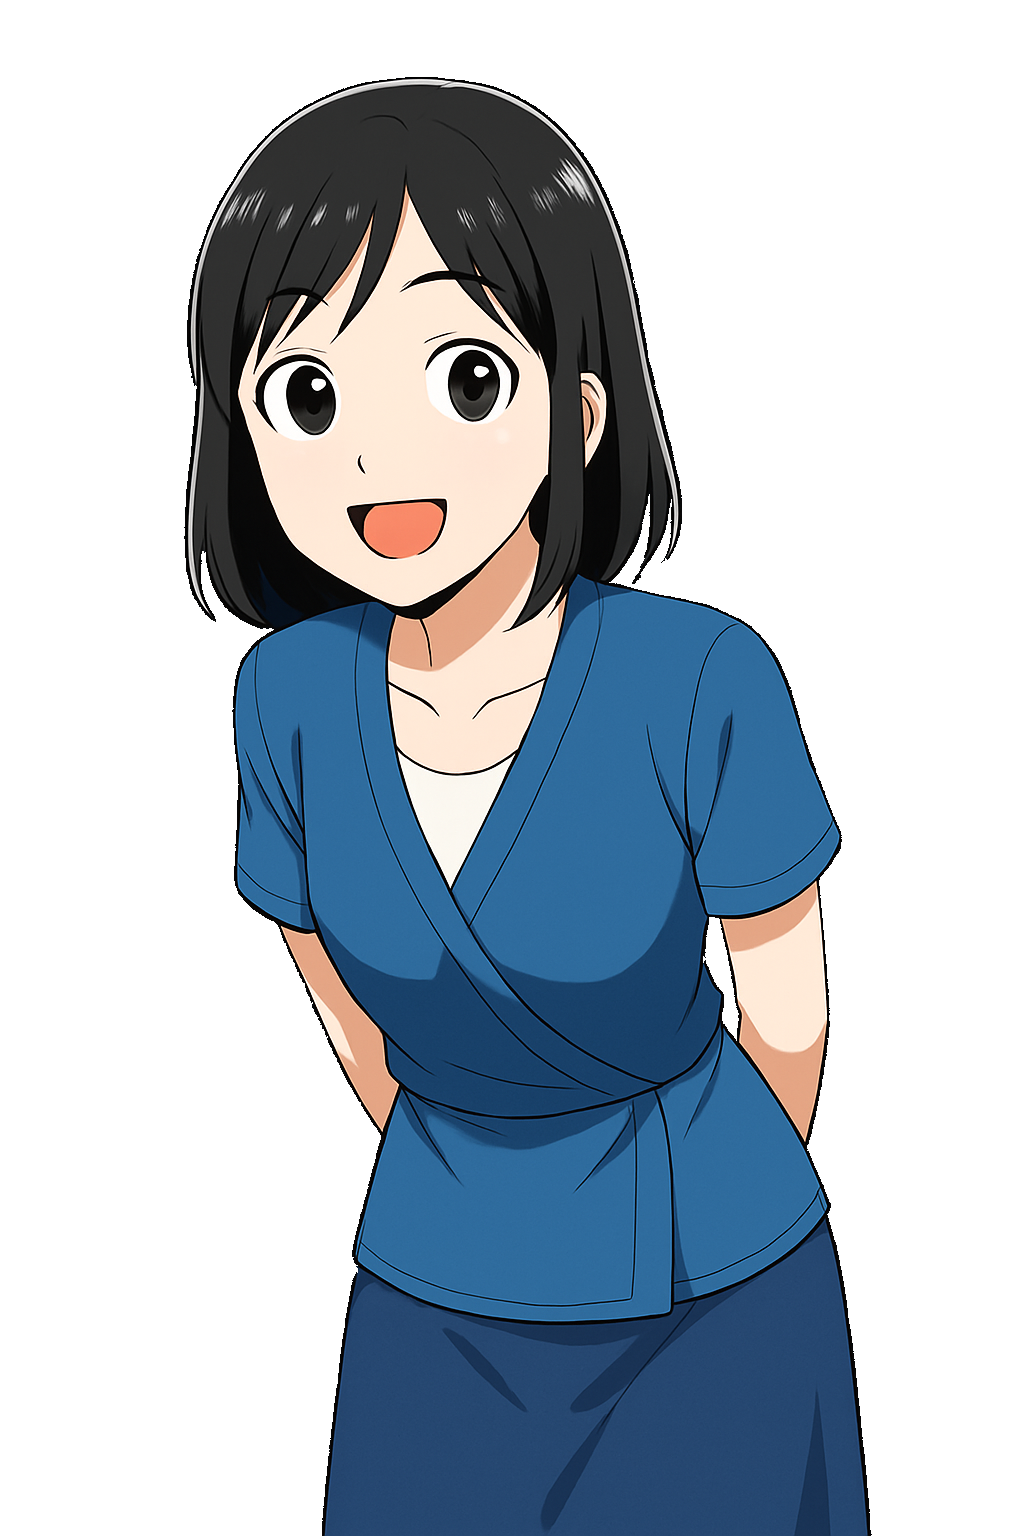
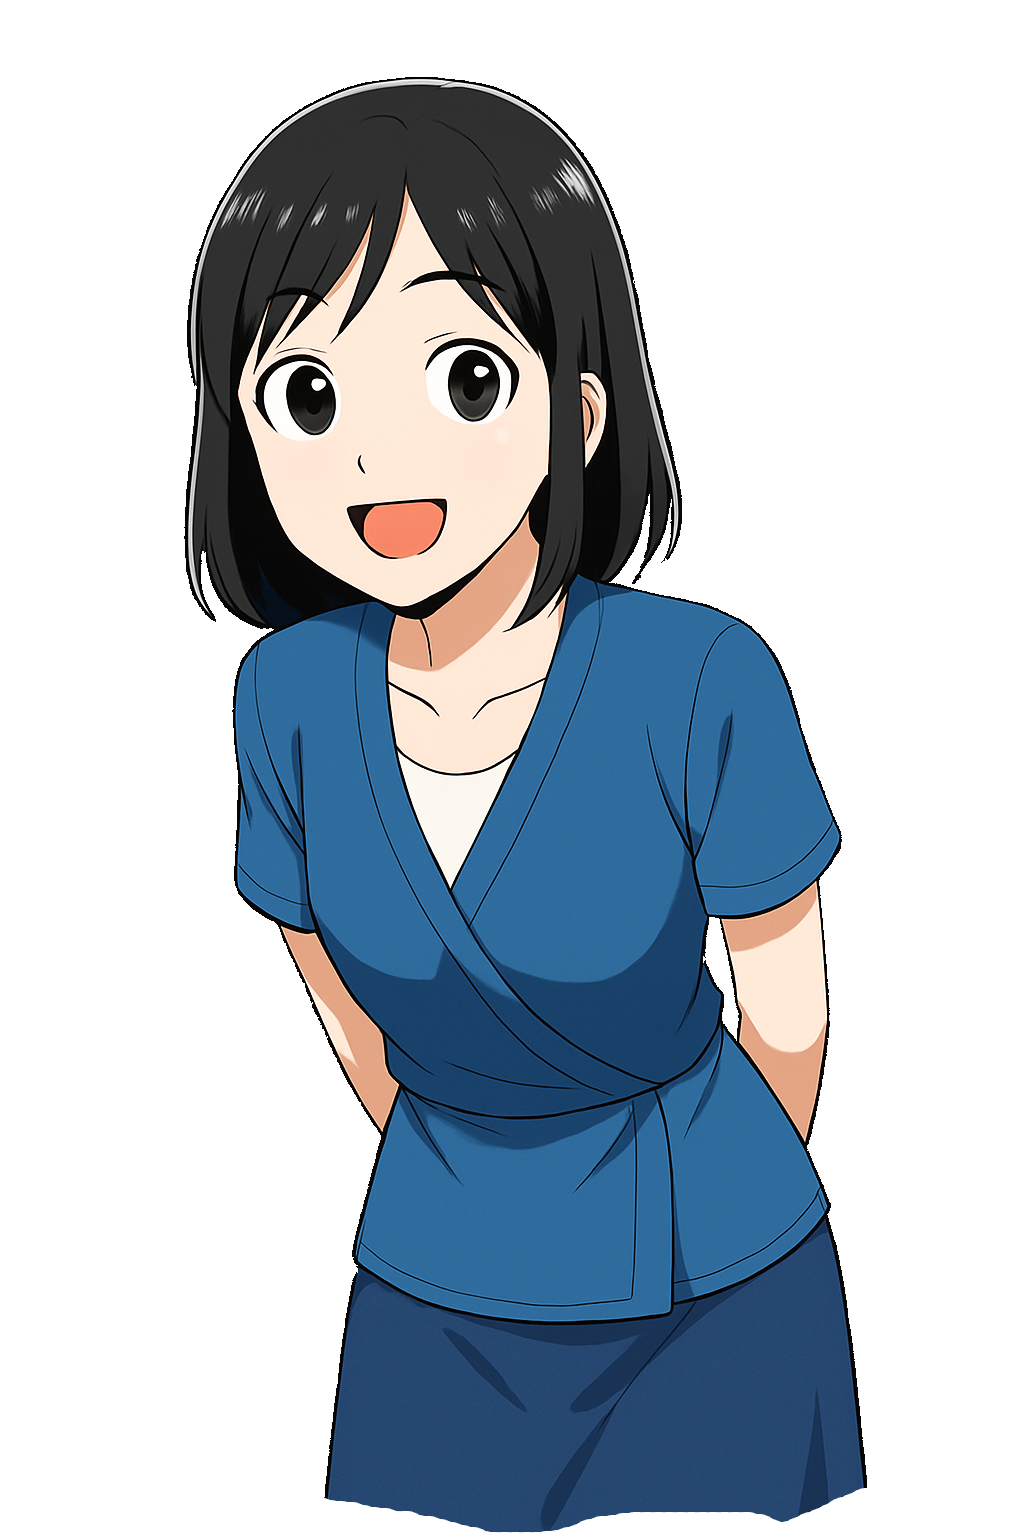
missing translation

Changed region(s): [[0.5312, 0.9688, 0.875, 1.0], [0.3125, 0.9688, 0.4688, 1.0]]

diff --git a/components/molecules/Game/SingleNoteGame.tsx b/components/molecules/Game/SingleNoteGame.tsx
@@ -24,7 +24,7 @@ import { ScoreManager } from "@/utils/ScoreManager";
 import { STYLES } from "@/utils/styles";
 import { CurrentGame, Game, GameScreenParams, Note, SingleNoteRound } from "@/utils/types";
 import { router, useLocalSearchParams } from "expo-router";
-import { useCallback, useEffect, useMemo, useState } from "react";
+import { useCallback, useEffect, useMemo, useRef, useState } from "react";
 import { StyleProp, TextStyle, View } from "react-native";
 import { SafeAreaView } from "react-native-safe-area-context";
 import { Placement } from "react-native-tooltip-2";
@@ -33,6 +33,7 @@ import { Piano } from "../Piano/Piano";
 import { SheetMusic } from "../SheetMusic";
 import { TimerAndStatsDisplay } from "../TimeAndStatsDisplay";
 import { LoadingScreen } from "../LoadingScreen";
+import { WAIT_MISTAKE, WAIT_SUCCESS } from "@/utils/constants";
 
 const s = STYLES.game;
 
@@ -61,7 +62,13 @@ export function SingleNoteGameComponent() {
         () => decideNextRound<SingleNoteRound>(level, keySignature, possibleNotes)?.value ?? "c/3"
     );
 
+    const isLocked = useRef(false);
     async function onPianoKeyPress(notename: NoteName) {
+        if (isLocked.current) {
+            console.warn("locked");
+            return;
+        }
+        isLocked.current = true;
         const { noteName, octave } = explodeNote(currNote);
         const playedNote = `${notename}/${+octave}` as Note;
         const isSuccess = isNoteMatch(notename, noteName);
@@ -70,14 +77,18 @@ export function SingleNoteGameComponent() {
         const { currNoteValue } = ScoreManager.push(isSuccess ? "success" : "mistake");
         eventEmitter.emit(AppEvents.NotePlayed, { data: { playedNote, currNote, isSuccess, currNoteValue } });
 
+        let lockTime = 0;
         if (isSuccess) {
             playPianoNote(playedNote);
+            lockTime = WAIT_SUCCESS;
         } else {
             playPianoNote(playedNote);
             playPianoNote(currNote);
             playSoundEfx(SoundEffect.WrongAnswer2);
+            lockTime = WAIT_MISTAKE;
         }
 
+        wait(lockTime).then(() => (isLocked.current = false));
         if (!currentGame || currentGame.type !== GameType.Single) return;
 
         addNewRound({ value: currNote, attempt: playedNote });

diff --git a/components/molecules/SheetMusic/SingleNote.tsx b/components/molecules/SheetMusic/SingleNote.tsx
@@ -23,6 +23,7 @@ import { getDrawNote } from "@/utils/noteFns";
 import { Note, NotePlayedEventData } from "@/utils/types";
 import { StyleSheet } from "react-native";
 import { getScoreHeight } from "@/utils/device_sizes";
+import { WAIT_MISTAKE, WAIT_SUCCESS } from "@/utils/constants";
 
 const armatureSpace = {
     [KeySignature.Cb]: 70,
@@ -64,8 +65,6 @@ const scoreDims = getScoreHeight();
 const height = scoreDims.stageHeight;
 const MIN_STAVE_WIDTH = 180;
 
-const WAIT_SUCCESS = 100;
-const WAIT_MISTAKE = 350;
 export interface MusicNoteProps {
     targetNote: Note;
     clef: Clef;
@@ -110,7 +109,6 @@ export function SingleNoteComponent(props: MusicNoteProps) {
 
     useEffect(() => {
         eventEmitter.addListener(AppEvents.NotePlayed, ({ data }: { data: NotePlayedEventData }) => {
-            // console.log("listenerCount ::::", eventEmitter.listenerCount(AppEvents.NotePlayed));
             const { playedNote, isSuccess } = data;
             // console.log("NotePlayed:::", { playedNote, isSuccess });
             waitTime.current = isSuccess ? WAIT_SUCCESS : WAIT_MISTAKE;

diff --git a/app/init/01.lang.screen.tsx b/app/init/01.lang.screen.tsx
@@ -57,7 +57,7 @@ export default function LangScreen() {
                                 }}
                             >
                                 <AppText style={{ textAlign: "center", color: Colors[theme].bg }}>
-                                    Welcome! Ready to practice music sight reading?
+                                    {t("routes.init.greeting")}
                                 </AppText>
                             </AppView>
                         </FadeIn>
@@ -68,7 +68,7 @@ export default function LangScreen() {
                                     position: "absolute",
                                     left: 132,
                                     // right: -180,
-                                    top: -160,
+                                    top: -120,
                                     width: 180,
                                     height: 400,
                                     zIndex: 1,

diff --git a/app/index.tsx b/app/index.tsx
@@ -131,7 +131,7 @@ export default function Home() {
                 />
             </View>
 
-            <Animated.Image style={s.image} source={require("../assets/images/girl.03.png")} />
+            <Image style={s.image} source={require("../assets/images/girl.03.png")} />
         </AppView>
     );
 }
@@ -152,8 +152,8 @@ const s = StyleSheet.create({
         flex: 1,
         justifyContent: "space-between",
         alignItems: "center",
-        paddingTop: 104,
-        paddingBottom: 54,
+        paddingTop: 80,
+        paddingBottom: 24,
         // backgroundColor: "transparent",
         zIndex: 10,
     },
@@ -169,8 +169,8 @@ const s = StyleSheet.create({
         position: "absolute",
         left: 0,
         bottom: 0,
-        width: 280,
-        height: 420,
+        width: 210,
+        height: 320,
         zIndex: 2,
     },
 });

diff --git a/app/_layout.tsx b/app/_layout.tsx
@@ -97,11 +97,11 @@ export function useAppInitialization() {
         }
     }, [soundsLoaded, fontsLoaded]);
 
-    useEffect(() => {
-        console.log("listenerCount ::::", eventEmitter.listenerCount(AppEvents.NotePlayed));
-        console.log("path :::", path);
-        console.log("Dimensions :::", Dimensions.get("screen"));
-    }, [path]);
+    // useEffect(() => {
+    //     console.log("listenerCount ::::", eventEmitter.listenerCount(AppEvents.NotePlayed));
+    //     console.log("path :::", path);
+    //     console.log("Dimensions :::", Dimensions.get("screen"));
+    // }, [path]);
 
     useEffect(() => {
         NavigationBar.setVisibilityAsync("hidden");

diff --git a/hooks/useLoadingNavigation.ts b/hooks/useLoadingNavigation.ts
@@ -10,7 +10,7 @@ export function useLoadingNavigation() {
         setIsNavigating(true);
         // console.log("navigating to ", route);
         // await wait(10000);
-        // await wait(0);
+        await wait(0);
 
         router.push({
             pathname: route,
@@ -20,7 +20,9 @@ export function useLoadingNavigation() {
     useEffect(() => {
         // console.log("path :::", { p: path });
         if (path) {
-            setIsNavigating(false);
+            wait(200).then(() => {
+                setIsNavigating(false);
+            });
         }
     }, [path]);
 

diff --git a/utils/constants.ts b/utils/constants.ts
@@ -28,3 +28,6 @@ export const SUPPORTED_LANGUAGES = Object.keys(TRANSLATIONS);
 export const LANGS = SUPPORTED_LANGUAGES.map((lang) => ({ key: lang, value: (TRANSLATIONS as any)[lang].lang }));
 
 export const WALKTHROUGH_TOP_ADJUSTMENT = Platform.OS === "android" ? -StatusBar.currentHeight! : 0;
+
+export const WAIT_SUCCESS = 100;
+export const WAIT_MISTAKE = 350;

diff --git a/translations/pt-BR.ts b/translations/pt-BR.ts
@@ -32,6 +32,7 @@ const ptBR = {
                 title: "Você já sabe ler partituras?",
                 you: "Seu nível é",
             },
+            greeting: "Boas vindas! Bora praticar leitura musical?",
         },
         next: "Próximo",
         prev: "Anterior",

diff --git a/translations/en.ts b/translations/en.ts
@@ -32,6 +32,7 @@ const en = {
                 title: "Can you read sheet music?",
                 you: "Your level is",
             },
+            greeting: "Welcome! Ready to practice music sight reading?",
         },
         next: "Next",
         prev: "Previous",
